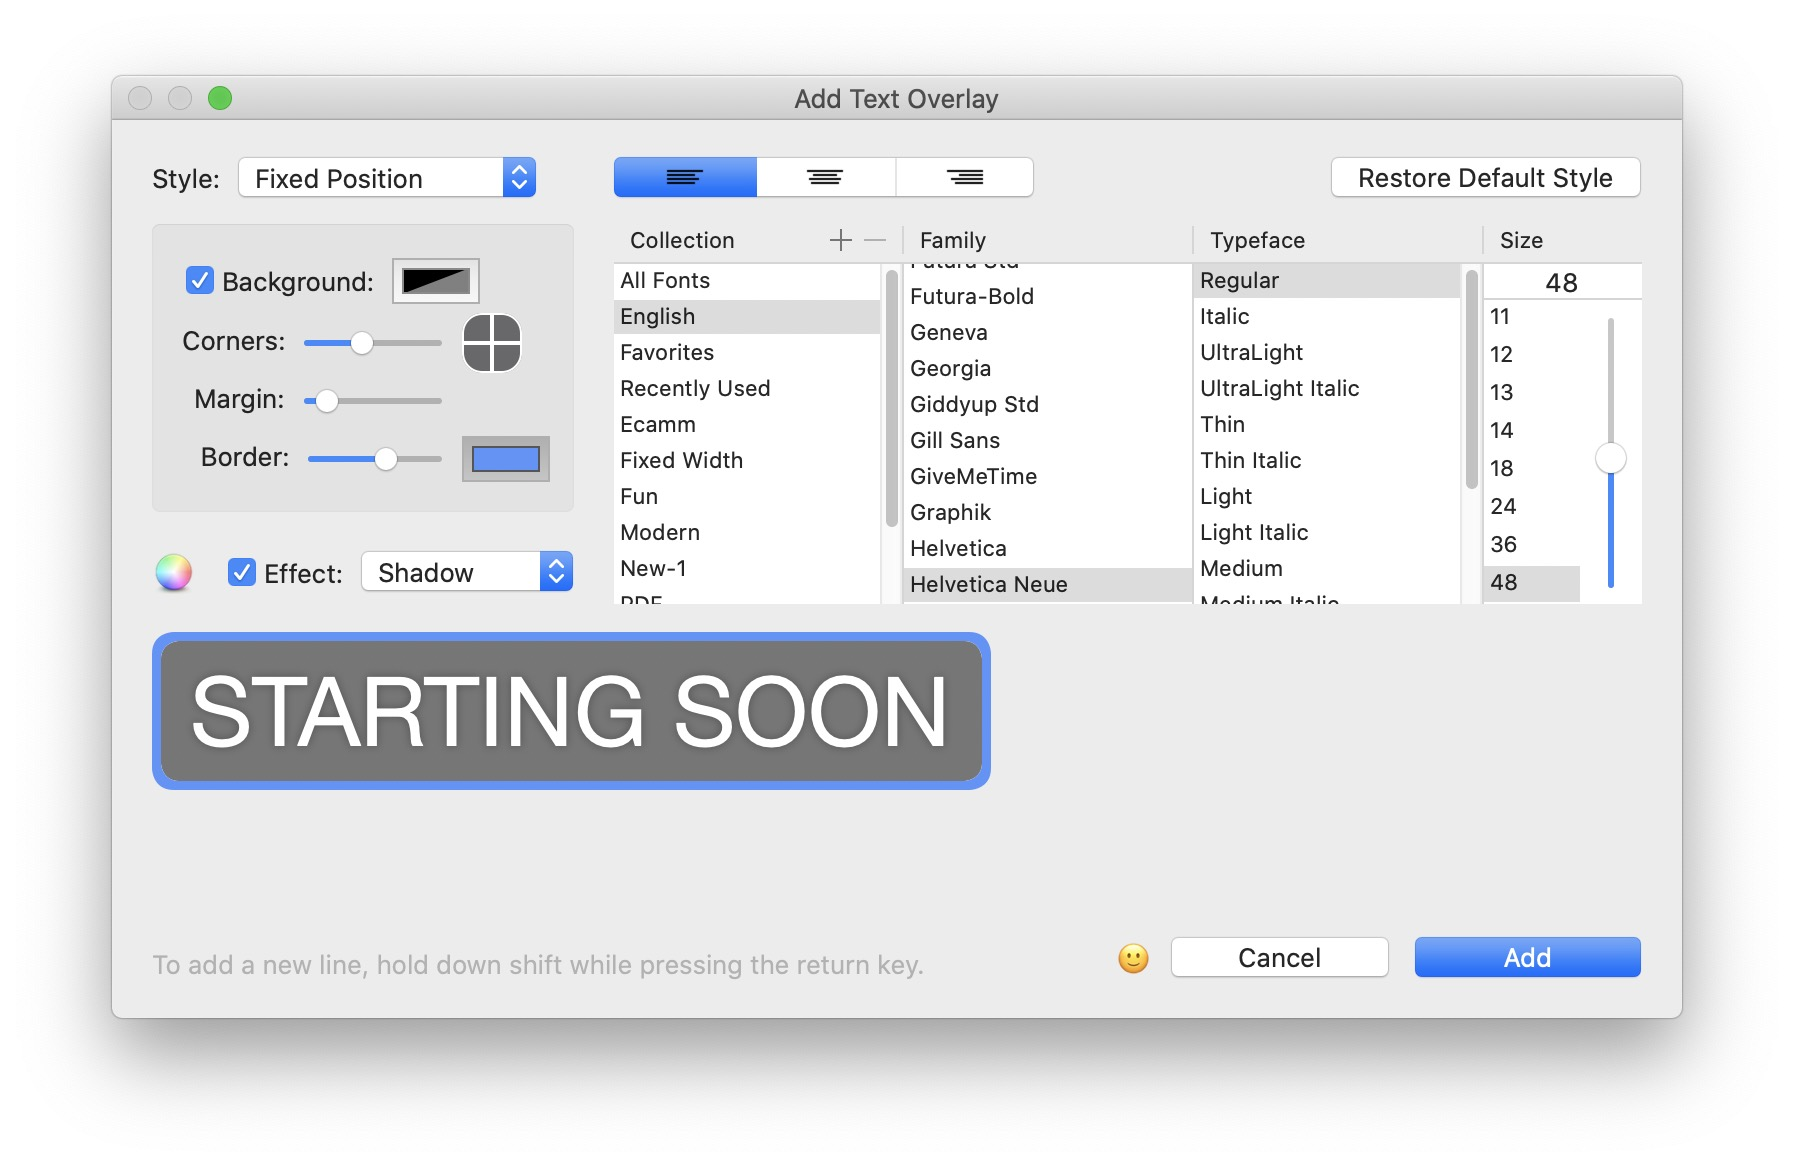
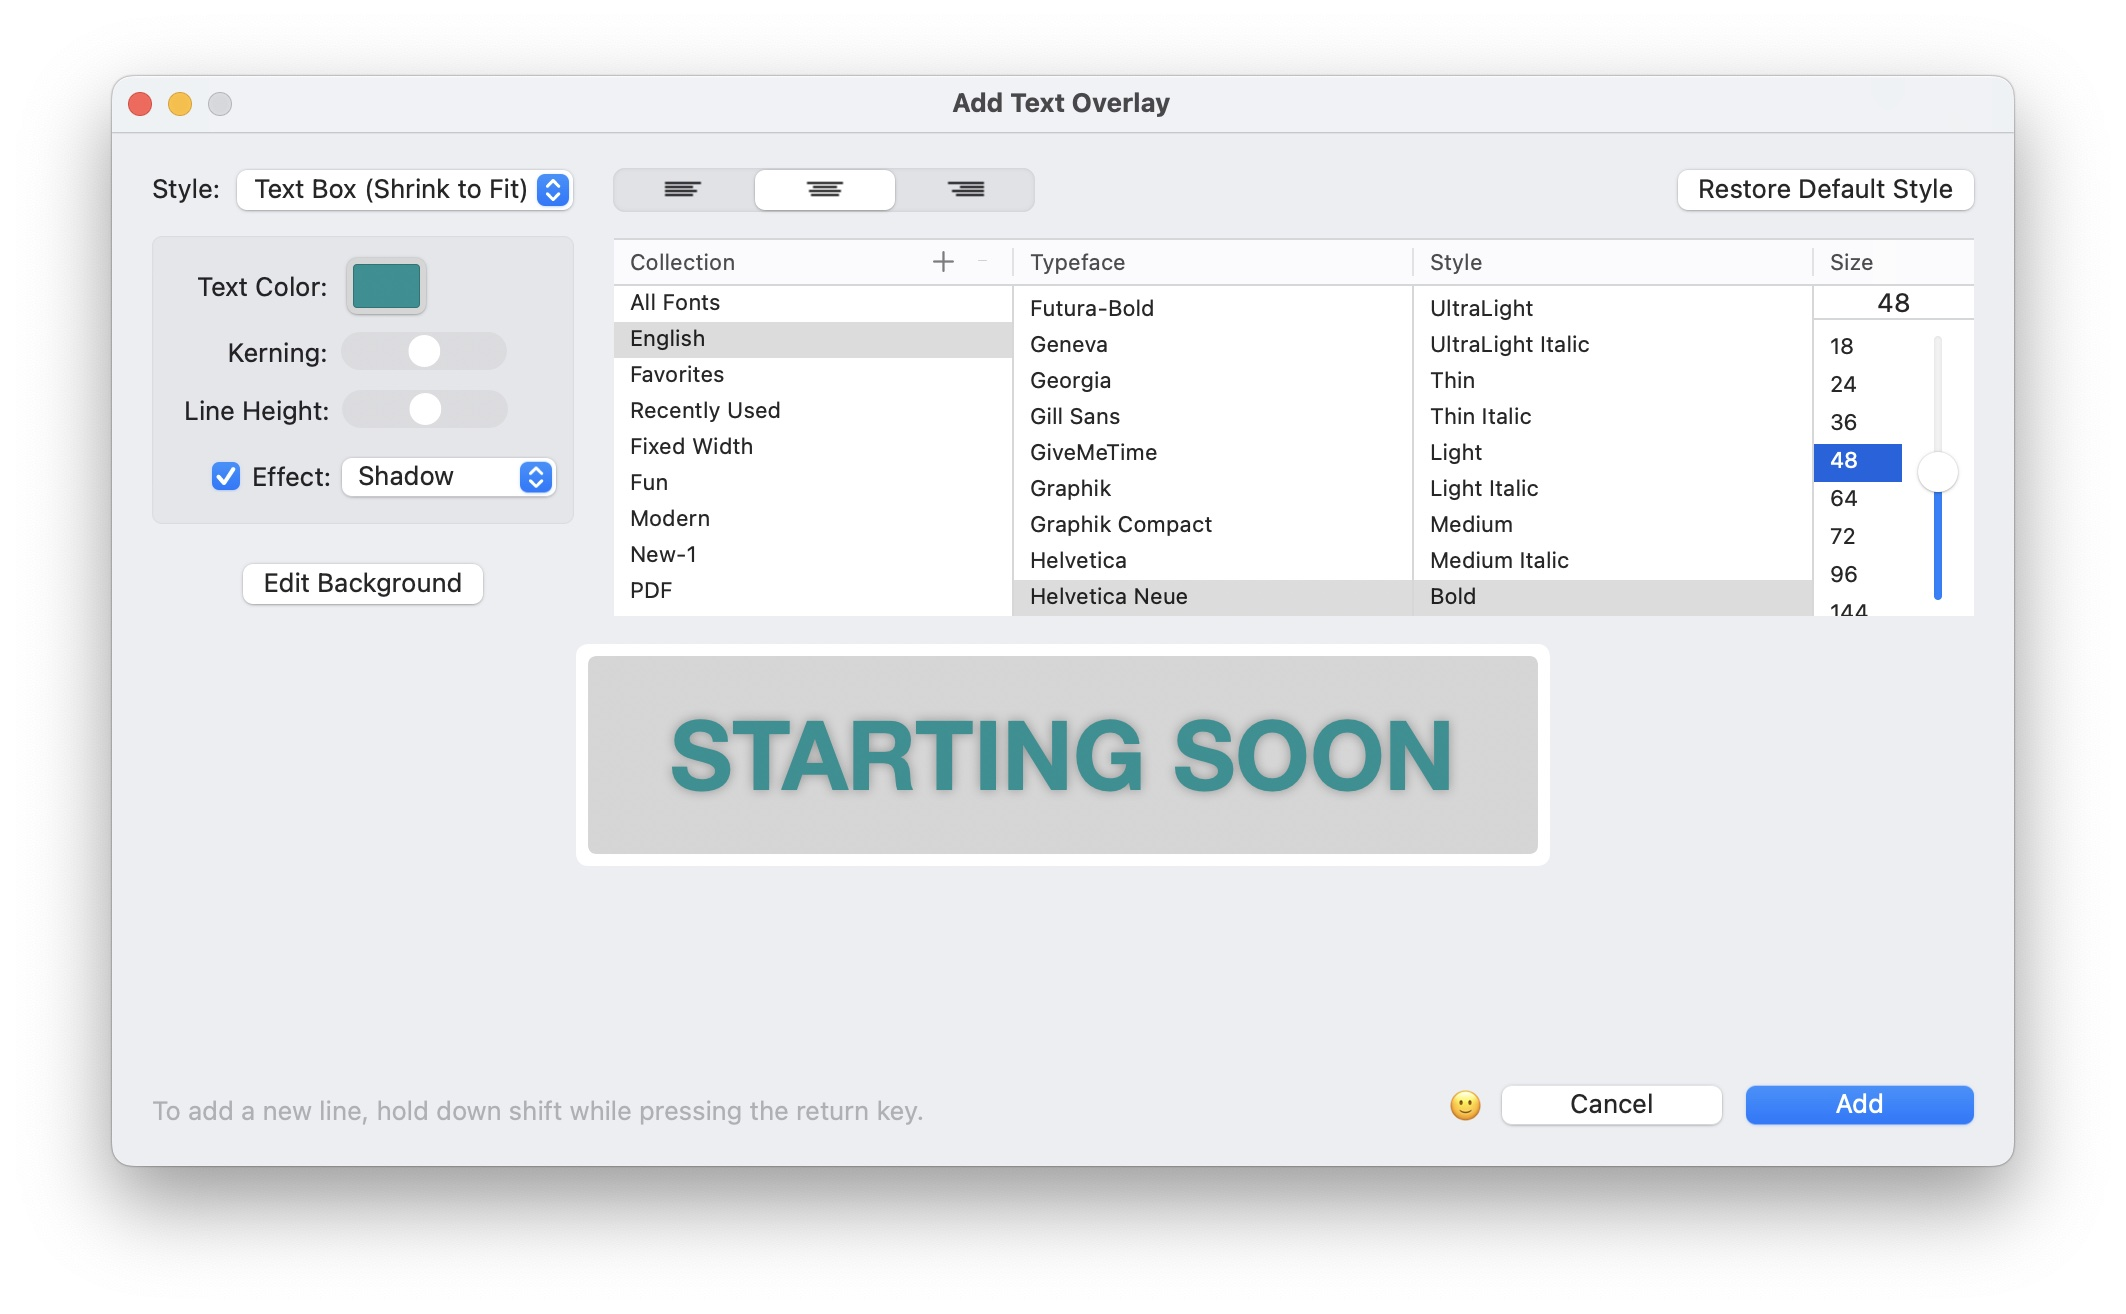
Fixes

Changed region(s): [[0.0312, 0.0617, 0.9677, 0.8954], [0.6243, 0.8027, 0.6555, 0.8336]]

diff --git a/docs/_ecamm-live-manual/006-using-overlays.md b/docs/_ecamm-live-manual/006-using-overlays.md
@@ -3,7 +3,7 @@
 ---
 ## What are Overlays?
 
-Overlays are styled text and images in your broadcast. If you don't see the Overlays window, you can show it by clicking the {% inlineicon overlays 45 graybutton %}Overlays Menu Button{% endinlineicon %} in the upper right corner of the Main Window, or show it using Overlays menu at the very top of your display.
+Overlays are styled text, shapes, images and animations in your broadcast. If you don't see the [Overlays Window](#managing-your-overlays), you can show it by clicking the {% inlineicon overlays 45 graybutton %}Overlays Menu Button{% endinlineicon %} in the upper right corner of the [Main Window](../002-the-main-window), or show it using <samp>Overlays</samp> menu at the very top of your display.
 
 There are eight types of Overlays:
 
@@ -22,11 +22,13 @@ Text Box Overlays are for adding a larger block of text to a broadcast. The shap
 There are four ways to add a Text Overlay:
 
 * Select <samp>New Dynamic Text Overlay</samp> or <samp>New Text Box Overlay</samp>  in the <samp>Overlays</samp> menu at the top of your display
-* Click the {% inlineicon addtext 20 inverted %}Add Dynamic Text Overlay Button{% endinlineicon %} or {% inlineicon addtextbox 40 inverted %}Add Text Box Overlay Button{% endinlineicon %} buttons at the bottom the Overlays Window.
-* Type <kbd>⌘</kbd><kbd>N</kbd> or <kbd>⌘</kbd>kbd><kbd>option</kbd><kbd>N</kbd> 
+* Click the {% inlineicon addtext 20 inverted %}Add Dynamic Text Overlay Button{% endinlineicon %} or {% inlineicon addtextbox 40 inverted %}Add Text Box Overlay Button{% endinlineicon %} buttons at the bottom the [Overlays Window](#managing-your-overlays).
+* Type <kbd>⌘</kbd><kbd>N</kbd> or <kbd>⌘</kbd><kbd>option</kbd><kbd>N</kbd> 
 * Copy text from anywhere on your Mac. <samp>Edit</samp> menu ➝ <samp>Paste as Overlay</samp> will allow you to paste in plain or styled text.
 
 When you create a new Text Overlay, a Text Editing Window will appear. Start typing to enter text. You can hold the <kbd>shift</kbd> key and press the <kbd>return</kbd> key to insert a line break. You can change many properties  including font, font size, text color, kerning (the spacing between characters), and line height. You can apply any of these properties to individual lines or chunks of the text by highlighting them, and selecting your styles.
+
+Use the <samp>Edit Background</samp> button to make changes to the text's background color, border, and margin width.
  
 [![Figure\: Text Overlay Editor Window](/assets/img/text-overlay-editor-sheet.jpg "Click for full-size image.")
 ](/assets/img/text-overlay-editor-sheet.jpg)
@@ -41,25 +43,25 @@ Once you click <samp>Add</samp> in the Text Editing Window, your Overlay will ap
 
 #### Editing Text Overlays
 
-To change the text of the Overlay, click the <samp>Edit Text...</samp> button at the top of the Overlay's settings popover.
+To change the text of the Overlay, click the <samp>Edit Text...</samp> button at the top of the Overlay's [settings popover](#the-overlay-settings-popover).
 
-To change the width of a Dynamic Text Overlay without changing the font size, place your cursor over the right edge of the Overlay. Once the cursor switches to a left-right arrow, drag left or right to adjust the width. Once you've adjusted the width, the width will remain fixed. To return to an automatically-sized width, double-click the right edge area.
+To change the width of a Dynamic Text Overlay without changing the font size, place your cursor over the right edge of the Overlay. Once the cursor switches to a left-right arrow, drag left or right to adjust the width. Once you've adjusted the width, the width will remain fixed. To return to an automatically-sized width, double-click the right edge area, or right-click on the overlay and pick <samp>Clear Fixed Width</samp>.
 
 #### Changing The Text Box Style
 
-The <samp>Style</samp> menu in the Overlay's settings popover can be used to change a Text Overlay's style between Dynamic Text, Text Box (Shrink), Text Box (Truncate), and Scrolling Ticker.
+The <samp>Style</samp> menu in the Overlay's [settings popover](#the-overlay-settings-popover) can be used to change a Text Overlay's style between Dynamic Text, Text Box (Shrink), Text Box (Truncate), and Scrolling Ticker.
 
 #### Text Background Options
 
-Use the <samp>Background</samp> menu in Overlay's settings popover to pick a background. A background can be a solid color, linear gradient, motion gradient, or a [visual effect](#visual-effects) such as a blur.
+Use the <samp>Background</samp> menu in the Overlay's [settings popover](#the-overlay-settings-popover) to pick a background. A background can be a solid color, linear gradient, motion gradient, or a [visual effect](#visual-effects) such as a blur.
 
 #### Text Margin Size
 
-Use the <samp>Text Margin</samp> slider in the Overlay's settings popover to determine how much space there is around the edges of the text.
+Use the <samp>Text Margin</samp> slider in the Overlay's [settings popover](#the-overlay-settings-popover) to determine how much space there is around the edges of the text.
 
 #### Cutout Text
 
-The <samp>Cutout Text</samp> option can be found in the <samp>More Options</samp> section of the Overlay's settings popover. Cutout Text mode will create a text-shaped cut out in the Overlay's background color, allowing the scene's background to show through.
+The <samp>Cutout Text</samp> option can be found in the <samp>More Options</samp> section of the Overlay's [settings popover](#the-overlay-settings-popover). Cutout Text mode will create a text-shaped cut out in the Overlay's background color, allowing the scene's background to show through.
 
 ![Figure\: An example of cutout text.](/assets/img/fire.jpg "Fire"){: width="286px"}
 
@@ -99,14 +101,12 @@ Animated Overlays work just like [Image Overlays](#image-overlays) but use a vid
 
 Video files with transparency are best. These can be created in apps such as Adobe After Effects, and should be saved as Apple ProRes 4444, WebM or HEVC video formats. (Other formats will play, but won't have transparency.)
 
-There are 4 ways to create an Animated Overlay:
+There are 4 ways to add an Animated Overlay:
 
 * Drag a movie file from the Finder into the [Overlays Window](#managing-your-overlays).
-* Select <samp>New Animated Overlay</samp> in the <samp>Overlays</samp> menu at the top of your display
+* Select <samp>New Animated Overlay</samp> in the <samp>Overlays</samp> menu at the top of your display.
 * Click the {% inlineicon addmovie 50 inverted %}New Animated Overlay Button{% endinlineicon %} button at the bottom the [Overlays Window](#managing-your-overlays).
-* Type <kbd>shift</kbd><kbd>option</kbd><kbd>⌘</kbd><kbd>O</kbd> while in the Main Window.
-
-A File Selection Sheet will appear, allowing you to find and select a movie file.
+* Type <kbd>shift</kbd><kbd>option</kbd><kbd>⌘</kbd><kbd>O</kbd> while in the Main Window. A File Selection Sheet will appear, allowing you to find and select a movie file.
 
 #### Animated Overlay Playback Options
 
@@ -116,19 +116,19 @@ By default, animated overlays will start playing from the beginning. If you'd pr
 
 #### Green Screen and Blue Screen Blend Modes
 
-Image Overlays and Animated Overlays offer a Green Screen and Blue Screen keying option in the <samp>Blend Mode</samp> menu in the Overlay's settings popover. (Find this in the <samp>More Options</samp> section.) Use this to add transparency to images and videos that have a green or blue background. Once picked, a <samp>Fade Level</samp> slider will show up, which can be used to adjust the keying threshold.
+Image Overlays and Animated Overlays offer a Green Screen and Blue Screen keying option in the <samp>Blend Mode</samp> menu in the Overlay's [settings popover](#the-overlay-settings-popover). (Find this in the <samp>More Options</samp> section.) Use this to add transparency to images and videos that have a green or blue background. Once picked, a <samp>Fade Level</samp> slider will show up, which can be used to adjust the keying threshold.
 
 ## Comment Overlays
 
 If you’re broadcasting with Facebook Live, YouTube Live, Amazon Live, Restream, or Twitch, and you receive a comment, you can drag that comment from the [Comments and Reactions Window](../012-streaming/#comments-and-reactions) into the Main Window. Ecamm will automatically convert your comment into a styled text Overlay, matching the style of your most recent Comment Overlay. If you want two different Comment Overlays to appear on screen at once, drag a second comment to the Main Window.
 
-You can also click the tiny <samp>Add To Broadcast</samp> button below each comment, or click the comment's Profile photo to place the comment on screen. This feature remembers the placement and style of a previous Comment Overlay. If there’s currently a Comment Overlay on screen, clicking a different comment in the Comments & Reactions window will replace the currently displayed Comment Overlay. This is useful for clicking through a series of comments in succession.
+You can also click the tiny <samp>Add To Broadcast</samp> button below each comment, or click the comment's avatar image to place the comment on screen. This feature remembers the placement and style of a previous Comment Overlay. If there’s currently a Comment Overlay on screen, clicking a different comment in the Comments & Reactions window will replace the currently displayed Comment Overlay. This is useful for clicking through a series of comments in succession.
 
 #### Editing Comment Overlays
 
-The text in a comment Overlay can be edited and styled just like a [Text Overlay](#editing-text-overlays). (Double-click the overlay in the Main Window and then click <samp>Edit Text...</samp>.) Once a Comment Overlay is styled, future comments remember this styling. A separate style can be applied to the comment author.
+The text in a comment Overlay can be edited and styled just like a [Text Overlay](#editing-text-overlays). (Double-click the overlay and then click <samp>Edit Text...</samp> in the Overlay's [settings popover](#the-overlay-settings-popover).) Once a Comment Overlay is styled, future comments remember this styling. A separate style can be applied to the comment author.
 
-#### Positioning and Style Comment Overlays in Advance
+#### Positioning and Styling Comment Overlays in Advance
 
 Comment Overlays will use the position, size, and style of previous Comment Overlays. To set up the appearance of Comment Overlays in your Scene, pick <samp>Add Placeholder Comment Overlay</samp> from the <samp>Overlays</samp> menu or press <kbd>⌘</kbd><kbd>option</kbd><kbd>K</kbd>. A placeholder Comment Overlay will appear, which can be styled and positioned as desired. Once you have finished, it can be deleted. Subsequent comments will use this position, size and style.
 
@@ -138,11 +138,11 @@ Comment Overlays include an avatar image of the viewer. Adjust the maximum size 
 
 #### Showing The Most Recent Comment as an Overlay
 
-Use the <samp>Add Last Comment As Overlay</samp> menu item in the <samp>Overlays</samp> menu to add the most recent comment as a Comment Overlay.  The key command <kbd>⌘</kbd><kbd>K</kbd> or the <samp>Show Comment</samp> Stream Deck key can also be used.
+Use the <samp>Add Last Comment As Overlay</samp> menu item in the <samp>Overlays</samp> menu to add the most recent comment as a Comment Overlay.  The key command <kbd>⌘</kbd><kbd>K</kbd> or the <samp>Show Comment</samp> [Stream Deck key](https://support.ecamm.com/en/articles/3370127-using-elgato-stream-deck-with-ecamm-live) can also be used.
 
 #### Hiding The Current Comment Overlay
 
-Use the <samp>Hide Last Comment Overlay</samp> menu item in the <samp>Overlays</samp> menu to hide the current Comment Overlay.  The key command <kbd>⌘</kbd><kbd>J</kbd> or the <samp>Hide Comment</samp> Stream Deck key can also be used.
+Use the <samp>Hide Last Comment Overlay</samp> menu item in the <samp>Overlays</samp> menu to hide the current Comment Overlay.  The key command <kbd>⌘</kbd><kbd>J</kbd> or the <samp>Hide Comment</samp> [Stream Deck key](https://support.ecamm.com/en/articles/3370127-using-elgato-stream-deck-with-ecamm-live) can also be used.
 
 #### Hiding Comment Overlays Automatically
 
@@ -160,7 +160,7 @@ There are 3 ways to add a Countdown Overlay:
 
 A Text Editing Window appears, providing all of the same visual styling options as with a Text Overlay. Pick a countdown type, such as countdown, clock, or stopwatch. You can edit the End Time and text alignment. Press <samp>Add</samp> to display your timer within the Main Window.
 
-To edit an existing countdown's settings, click the <samp>Edit Countdown...</samp> button at the top of the Overlay's settings popover.
+To edit an existing countdown's settings, click the <samp>Edit Countdown...</samp> button at the top of the Overlay's [settings popover](#the-overlay-settings-popover).
 
 #### Auto-Start Option
 
@@ -181,7 +181,7 @@ There are two ways to add a Shape Overlay:
 
 #### Visual Effects
 
-Shape overlays can be used to apply a visual effect to the broadcast. Visual effects can also be used as the background of [Text Overlays](#text-overlays). Pick an effect in the <samp>Fill</samp> menu in the Overlay's settings popover. (For Text Overlays, use the <samp>Background</samp> menu.)
+Shape overlays can be used to apply a visual effect to the broadcast. Visual effects can also be used as the background of [Text Overlays](#text-overlays). Pick an effect in the <samp>Fill</samp> menu in the Overlay's [settings popover](#the-overlay-settings-popover). (For Text Overlays, use the <samp>Background</samp> menu.)
 
 * **Blur:** Apply a gaussian blur.
 * **Zoom:** Apply a zoom blur.
@@ -195,9 +195,9 @@ Shape overlays can be used to apply a visual effect to the broadcast. Visual eff
  
 ## Camera Overlays
 
-If you need to quickly position a camera feed on the screen to create a custom layout or picture-in-picture, use a Camera Overlay. 
+Use a Camera Overlay to add a live camera view to the broadcast. 
 
-There are 3 ways you can add a Camera Overlay:
+There are 3 ways to add a Camera Overlay:
 
 * Select a camera from the <samp>New Camera Overlay</samp> sub-menu in the <samp>Overlays</samp> menu at the top of your display.
 * Click the{% inlineicon addcamera 70 inverted %}Add Camera Overlay{% endinlineicon %} button at the bottom the [Overlays Window](#managing-your-overlays).
@@ -207,7 +207,7 @@ A Camera Overlay will show up in the center of the Main Window.
 
 #### Editing Camera Overlays
 
-In the Camera Overlay's settings popover, a camera source and shape options will appear. If you need a shape that isn't listed in the shape menu, pick <samp>Custom</samp> from the list of shapes. Then adjust the shape by dragging the Overlay from any corner. 
+In the Camera Overlay's [settings popover](#the-overlay-settings-popover), a camera source and shape options will appear. If you need a shape that isn't listed in the shape menu, pick <samp>Custom</samp> from the list of shapes. Then adjust the shape by dragging the Overlay from any corner. 
 
 ## Screenshare Overlays
 
@@ -223,7 +223,7 @@ A Screenshare Overlay will show up in the center of the Main Window.
 
 #### Editing Screenshare Overlays
 
-In the Screenshare Overlay's settings popover, screenshare source and shape options will appear. If you need a shape that isn't listed in the shape menu, pick <samp>Custom</samp> from the list of shapes. Then adjust the shape by dragging the Overlay from any corner.  
+In the Screenshare Overlay's [settings popover](#the-overlay-settings-popover), screenshare source and shape options will appear. If you need a shape that isn't listed in the shape menu, pick <samp>Custom</samp> from the list of shapes. Then adjust the shape by dragging the Overlay from any corner.  
 
 #### Activate System Audio Capture
 
@@ -264,7 +264,7 @@ Clicking the {% inlineicon addwidget 25 inverted %}Add Widget Button{% endinline
 
 #### Editing Widget Overlays
 
-To return to the widget's setting, click the <samp>Edit Widget...</samp> button at the top of the overlay's settings popover.
+To return to the widget's setting, click the <samp>Edit Widget...</samp> button at the top of the overlay's [settings popover](#the-overlay-settings-popover).
 
 #### Interacting With Widget Overlays
 
